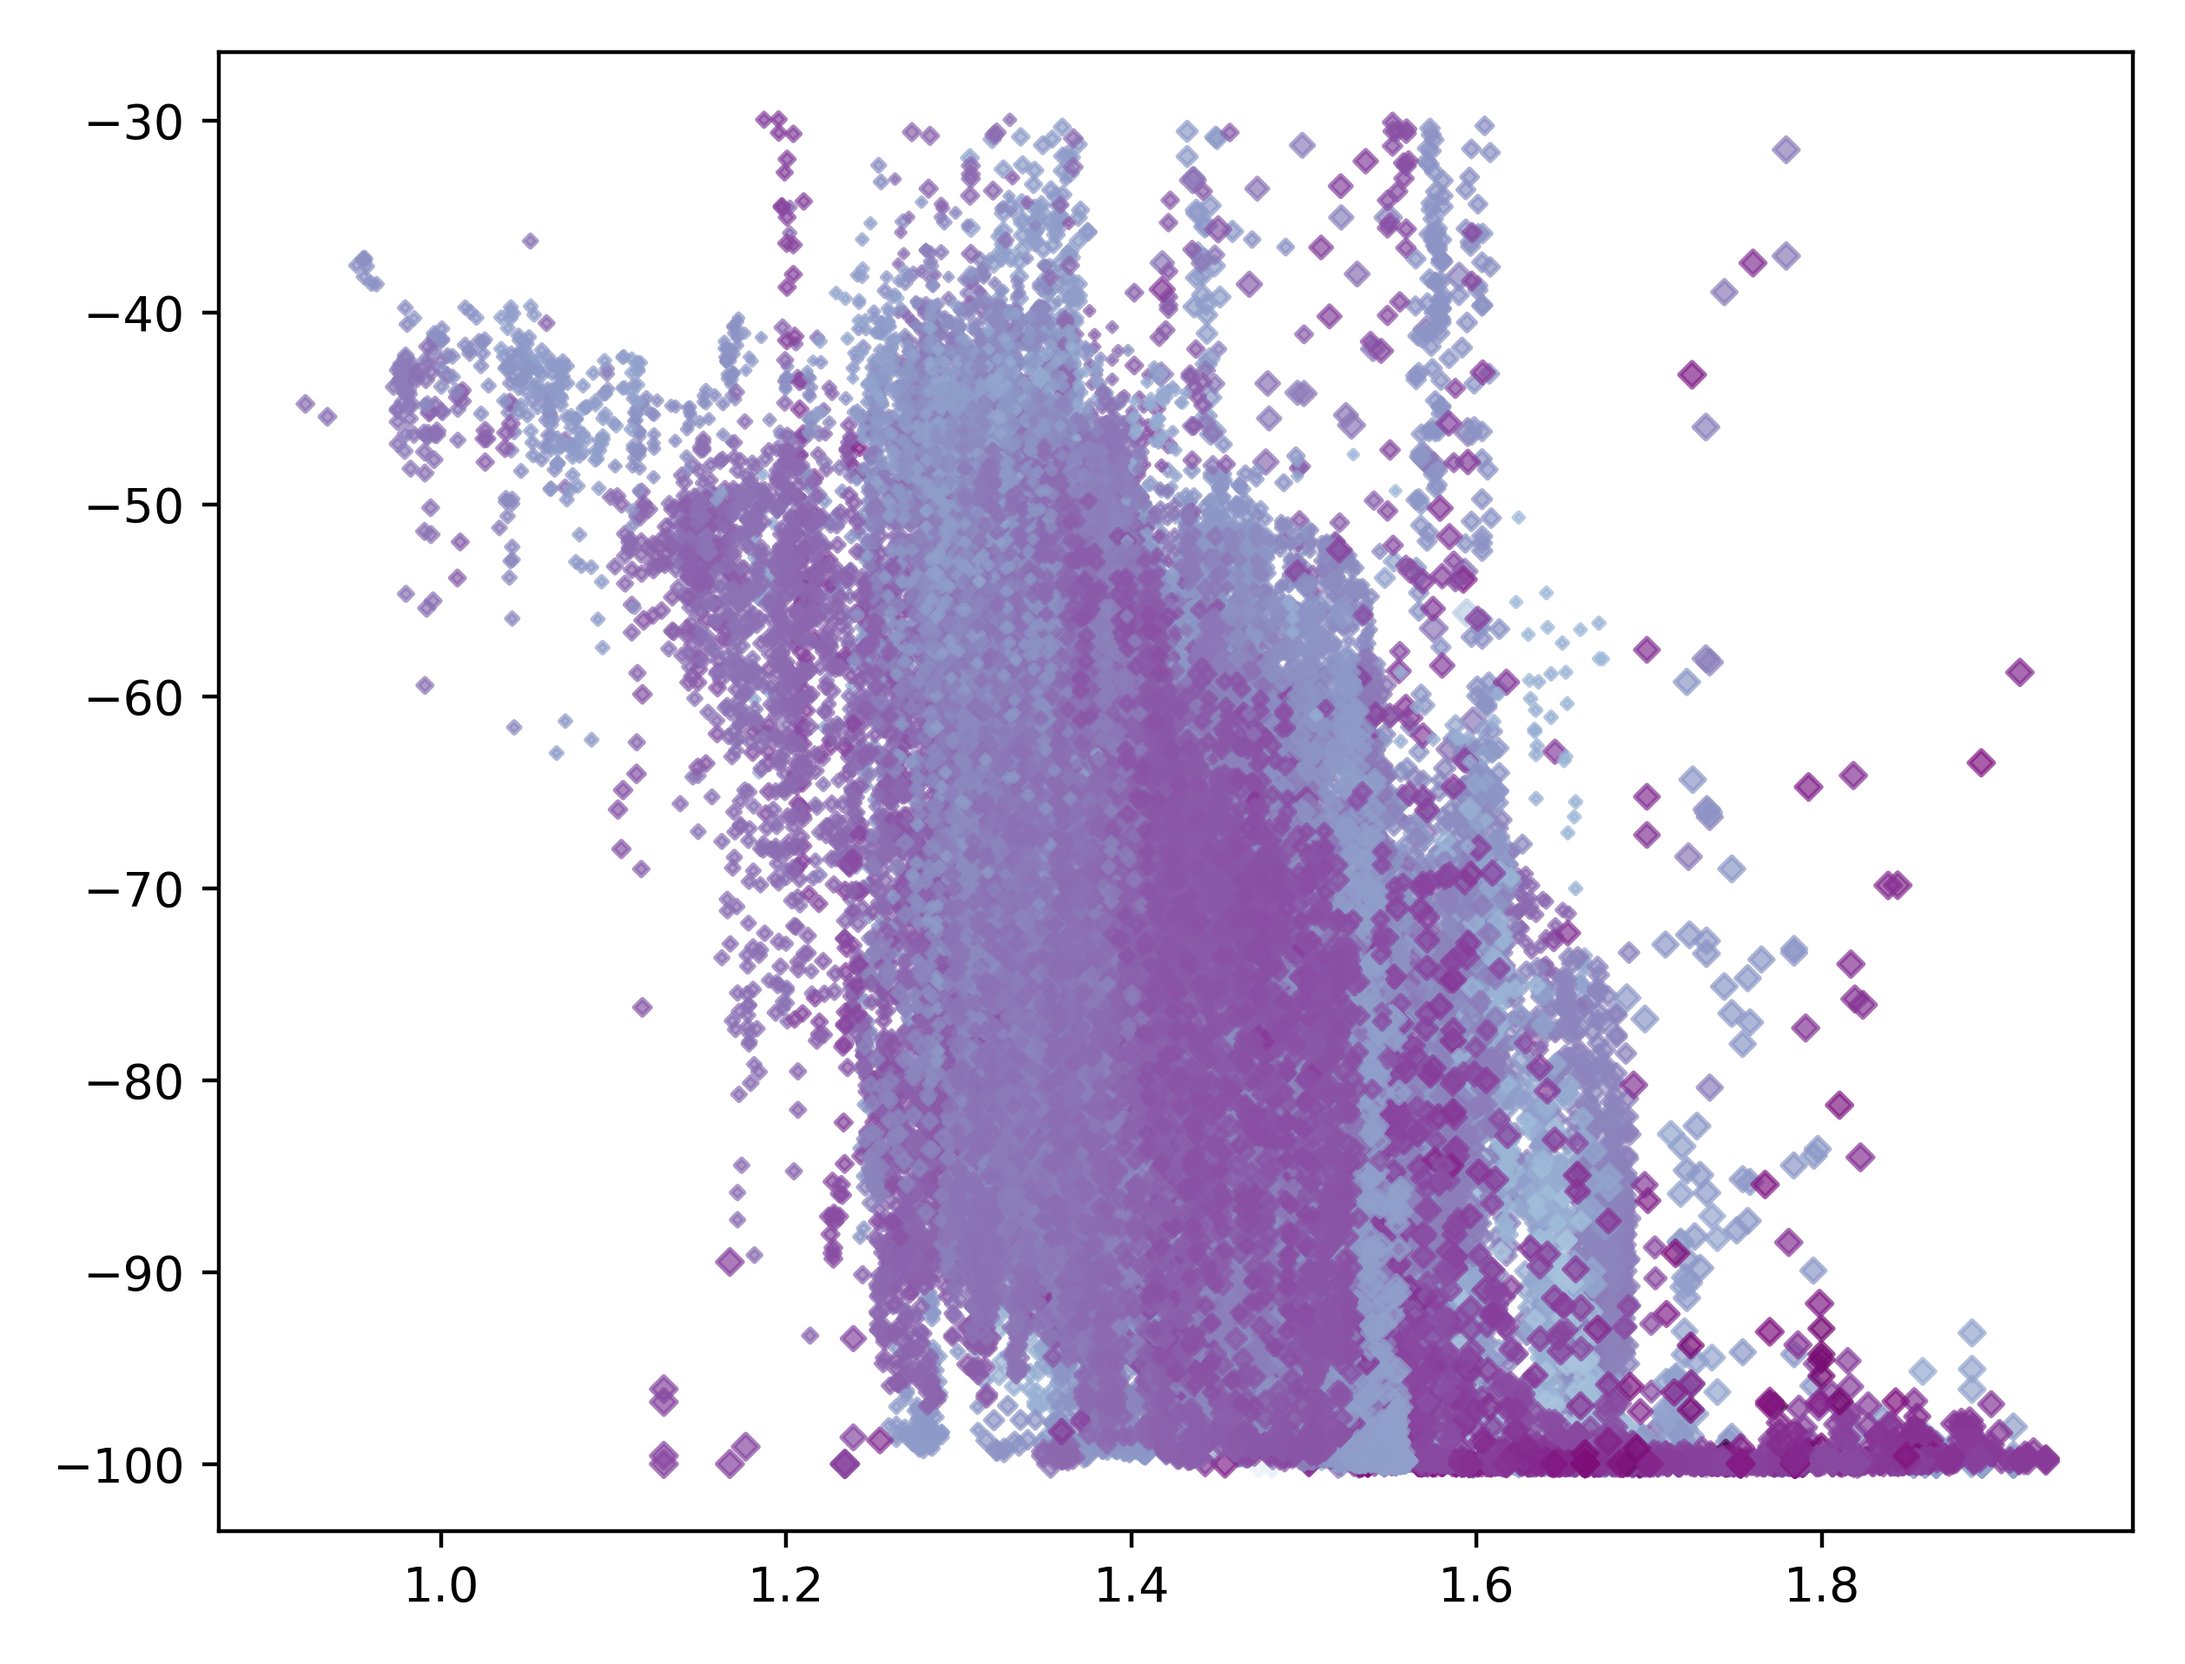
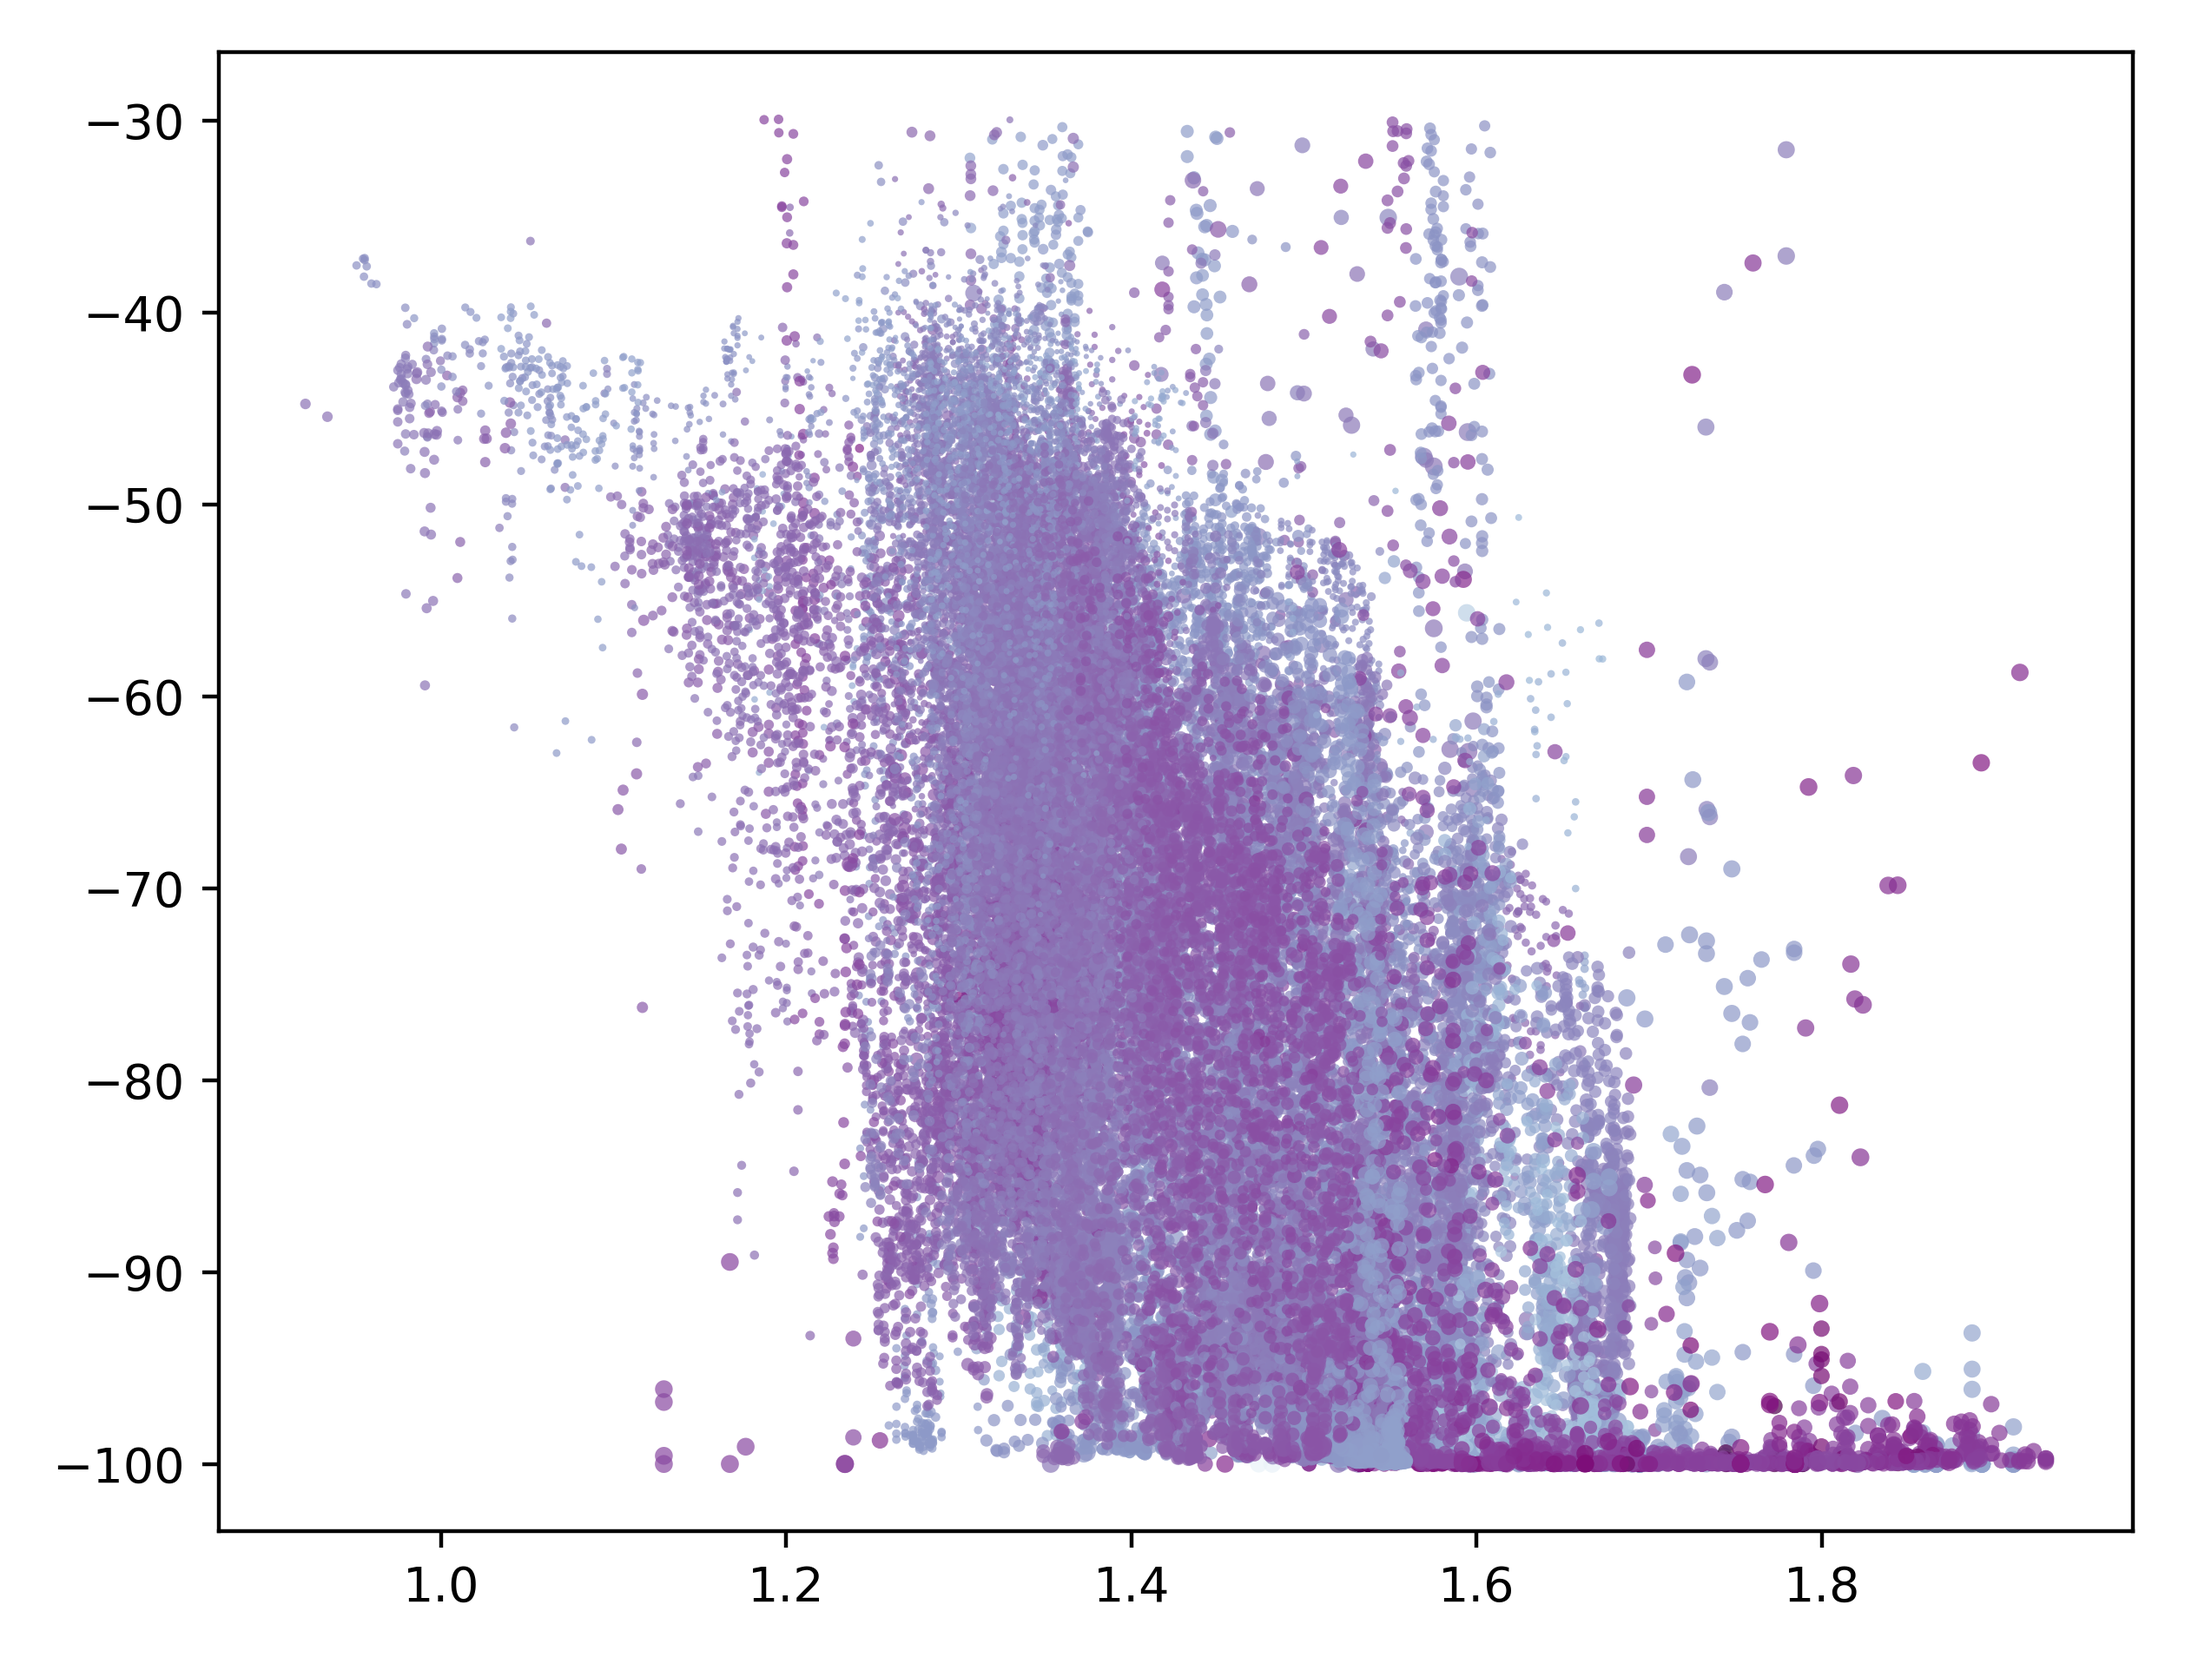
seperate pH and SST into two

diff --git a/dataprocess.py b/dataprocess.py
@@ -142,52 +142,8 @@ coral_cover_99th_percentile = filtered_data['coral_cover_change'].quantile(0.99)
 # 7. 過濾掉超過 99% 分位數的離群值
 filtered_data = filtered_data[filtered_data['coral_cover_change'] <= coral_cover_99th_percentile]
 
-# Classify SST_seasonal into categories
-filtered_data['SST_seasonal_class'] = pd.cut(
-    filtered_data['SST_seasonal'],
-    bins=[-np.inf, 0.5, 1, np.inf],
-    labels=['<=0.5 std', '0.5-1 std', '>1 std']
-)
 
-# Define marker styles for each class
-marker_styles = {
-    '<=0.5 std': 'o',  # circle
-    '0.5-1 std': 's',  # square
-    '>1 std': 'D'      # diamond
-}
-
-# 清除當前圖形
 plt.figure()  # 開啟新圖形，避免重疊
-# Plot scatter plot with different markers for SST_seasonal classes
-for sst_class, marker in marker_styles.items():
-    subset = filtered_data[filtered_data['SST_seasonal_class'] == sst_class]
-    plt.scatter(
-        subset['SST_change'], 
-        subset['coral_cover_change'], 
-        c=subset['pH_change'], 
-        s=subset['SST_seasonal'],  # Scale size for visual effect
-        cmap='BuPu_r', 
-        alpha=0.7,
-        marker=marker,
-        edgecolor='none',
-        label=sst_class
-    )
-
-
-# 保存圖像到 output 資料夾，設定 dpi=400
-output_dir = "output"
-output_path = os.path.join(output_dir, "Fig2.png")
-plt.savefig(output_path, dpi=400)
-
-scatter = plt.scatter(
-    filtered_data['SST_change'], 
-    filtered_data['coral_cover_change'], 
-    c=filtered_data['pH_change'], 
-    marker=filtered_data['SST_seasonal_class'],  # 調整大小以增強視覺效果
-    cmap='BuPu_r', alpha=0.7
-)
-
-
 # 使用 scatter 畫散佈圖，設定:
 # X 軸為 SST_change，Y 軸為 coral_cover_change
 # 點的顏色依據 pH_change，並使用 'viridis' 色譜（由低到高顏色變化）
@@ -196,9 +152,18 @@ scatter = plt.scatter(
     filtered_data['SST_change'], 
     filtered_data['coral_cover_change'], 
     c=filtered_data['pH_change'], 
-    s=filtered_data['SST_seasonal'],  # 調整大小以增強視覺效果
-    cmap='BuPu_r', alpha=0.7
+    s=5,
+    cmap='BuPu_r',  edgecolor='none', alpha=0.7
 )
+
+scatter = plt.scatter(
+    filtered_data['SST_change'], 
+    filtered_data['coral_cover_change'], 
+    c=filtered_data['SST_seasonal'],
+    s=1, 
+    cmap='Oranges',  edgecolor='none', alpha=0.7
+)
+
 
 # 加入顏色條，用於表示 pH_change 的數值範圍
 plt.colorbar(scatter, label='pH change')
@@ -208,7 +173,10 @@ plt.xlabel('SST change (degrees C)')
 plt.ylabel('Coral cover change (%)')
 plt.title('珊瑚覆蓋率變化與 SST 變化的關係\n(以 pH 變化為顏色, SST 季節變化為點大小)')
 
-
+# 保存圖像到 output 資料夾，設定 dpi=400
+output_dir = "output"
+output_path = os.path.join(output_dir, "Fig2.png")
+plt.savefig(output_path, dpi=400)
 
 
 ###Fig 3###
